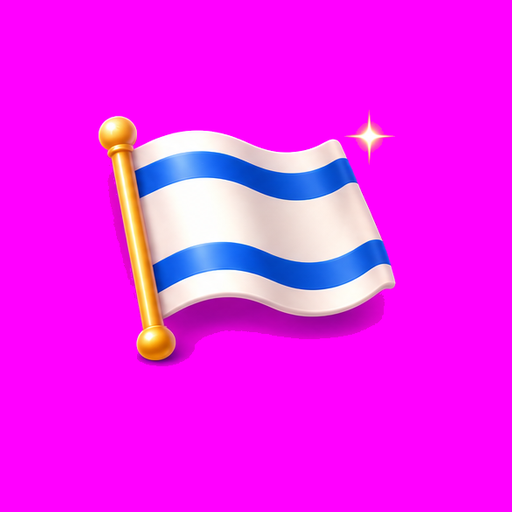
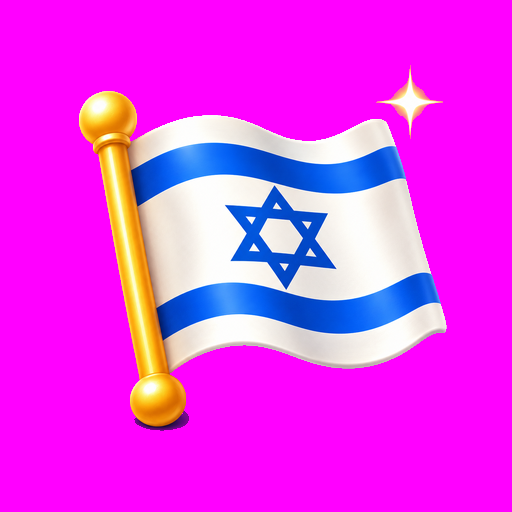
Ornaments round 7B: Purim colours, flag with Star of David, Hanukkah picture per day
Claude-Session: https://claude.ai/code/session_015MgUfvEpRuHmqiXj3bQ7Zo

Changed region(s): [[0.1562, 0.125, 0.875, 0.8438]]

diff --git a/scripts/make-art-assets.py b/scripts/make-art-assets.py
@@ -292,11 +292,12 @@ def ornaments():
         im = drop_specks(key(f'{src}/{n}')).resize((256, 256), Image.LANCZOS)
         im.save(f'{RES}/drawable-nodpi/{n[:-4]}.webp', format='WEBP', quality=92, alpha_quality=100, method=6)
         ims.append(im)
-    sheet = Image.new('RGB', (256 * 5, 256 * 4), (242, 242, 242))
-    sheet.paste(Image.new('RGB', (256 * 5, 256 * 2), (21, 23, 26)), (0, 256 * 2))
+    rows = (len(ims) + 4) // 5
+    sheet = Image.new('RGB', (256 * 5, 256 * rows * 2), (242, 242, 242))
+    sheet.paste(Image.new('RGB', (256 * 5, 256 * rows), (21, 23, 26)), (0, 256 * rows))
     for i, im in enumerate(ims):
-        for row in (0, 2):
-            sheet.paste(im, ((i % 5) * 256, (row + i // 5) * 256), im.getchannel('A'))
+        for off in (0, rows):
+            sheet.paste(im, ((i % 5) * 256, (off + i // 5) * 256), im.getchannel('A'))
     sheet.save('design/ornaments/review_sheet.png')
     print(len(ims), 'ornaments')
 

diff --git a/docs/PENDING_CHATGPT_PROMPTS.md b/docs/PENDING_CHATGPT_PROMPTS.md
@@ -7,7 +7,7 @@ Rule: assets are generated by the owner's ChatGPT from the prompts below, never 
 | 0 | `docs/prompts/ROUND0_STYLE_BIBLE_AND_LOGO_PROMPT.md` | **Logo** (mark, mono, lockups) + the style bible sheet that anchors everything | every other round, the launcher icon, the in-app brand mark | **WAITING FOR OWNER - run first** |
 | 0B | `docs/prompts/ROUND0B_LOGO_FIX_PROMPT.md` | Logo fix: round-0 delivery (2026-11-19) had a stray artifact, a card that reads as a sofa/headphones, a fiery sun aura, halo-ridden cut-out and a blob mono file. **Style bible = APPROVED** (`design/round0/style_bible.jpg`) | logo files, app icon | **WAITING FOR OWNER** |
 | 0C | `docs/prompts/ROUND0C_LOGO_CLOCK_CUE_PROMPT.md` | **DONE 2026-11-19: logo APPROVED** (flip card with "10", sun, golden orbit, wordmark). Keyed to transparent PNGs by `scripts/make-art-assets.py logo` and integrated: launcher icon (adaptive + monochrome) and Home header lockup | - | **DONE** |
-| 7B | `docs/prompts/ROUND7B_PURIM_FIX_PROMPT.md` | Ornament fixes: Purim mask colours (magenta-leaning purple was keyed out), flag with the Star of David (owner: important), and Hanukkah day by day (8 images with 1..8 candles lit + shamash) | the correct Hanukkah picture per day (code already supports `orn_hanukkah_<n>` and falls back to `orn_hanukkah`) | prompt given to the owner, waiting for delivery |
+| 7B | `docs/prompts/ROUND7B_PURIM_FIX_PROMPT.md` | Ornament fixes: Purim mask colours (magenta-leaning purple was keyed out), flag with the Star of David (owner: important), and Hanukkah day by day (8 images with 1..8 candles lit + shamash) | the correct Hanukkah picture per day (code already supports `orn_hanukkah_<n>` and falls back to `orn_hanukkah`) | DELIVERED and integrated 2026-11-21 (Purim indigo/rose, flag with Star of David, 8 Hanukkah days; Hanukkah flames are copies of the day-1 flame, so phone-check alignment) |
 | 7 | `docs/prompts/ROUND7_SEASONAL_PROMPT.md` | **DONE 2026-11-21 (accepted, Purim needs 7B)**: 9 painted holiday corner ornaments keyed and integrated by `make-art-assets.py ornaments` (originals in `design/ornaments/originals`); shown in the widget corner and the dashboard header on the holiday when festive looks are on | - | done |
 | 6C | `docs/prompts/ROUND6C_POCKET_WATCH_METALS_PROMPT.md` | DONE 2026-11-20 (integrated: silver + rose-gold case, bezel and 3 dials; chain omitted): silver and rose-gold recolours of the approved case and bezel (identical geometry, so the code can pick the metal by palette), plus a larger chain | metal choice for the pocket watch | done |
 | 6B | `docs/prompts/ROUND6B_POCKET_WATCH_FIX_PROMPT.md` | **DONE 2026-11-20 (accepted with code-side fixes)**: painted gold hunter case, bezel, 3 dials with antique Arabic numerals, ornate hands. Used: pw_case_closed, pw_bezel_gold, dials, hands (`design/pocketwatch/originals`, aligned by `scripts/make-art-assets.py pocket` into `pw_case`, `pw_open_*`, `pw_hand_*`). NOT used: the 12 lid frames (not pixel-registered; the lid opening is animated in code from the case art), silver/rose bezels (ragged edges), chain (small; optional later) | pocket-watch style | **DONE** |

diff --git a/docs/REQUESTS.md b/docs/REQUESTS.md
@@ -79,6 +79,6 @@ Status: DONE (verified as noted) · CODE (written, needs CI/phone proof) · ART 
 | R66 | (owner, 2026-11-21) Detailed, maintained docs for operation, maintenance and future improvement | DONE: `README.md` map, ARCHITECTURE, FEATURES, SETTINGS_REFERENCE, DATA_AND_PRIVACY, OPERATIONS, MAINTENANCE, TESTING; `RepoHygieneTest` enforces settings, cards, permissions, hosts, workflows and README links |
 | R67 | (owner, 2026-11-21) Special events (birthdays...) from the Special Events app shown in the widget | Code: reads that app's local calendar (account `special_events`) with the existing calendar permission: nearest one in the widget row, a dashboard card, settings; no change needed in the other app except turning on its "export to calendar"; contract in `docs/SPECIAL_EVENTS_INTEGRATION.md`; needs a phone |
 | R68 | (owner, 2026-11-21) Holiday ornaments delivered (round 7) | Integrated (9 webp, widget corner + dashboard header on the holiday). Purim ornament needs the colour fix prompt 7B |
-| R69 | (owner, 2026-11-21) Hanukkah: the correct picture for each day (1..8 candles + shamash); the evening before already counts | Code: `Season.ornamentKey/effectiveDay` + `orn_hanukkah_<n>` lookup with fallback (tested for all 8 days); the 8 pictures come with prompt 7B |
+| R69 | (owner, 2026-11-21) Hanukkah: the correct picture for each day (1..8 candles + shamash); the evening before already counts | Code: `Season.ornamentKey/effectiveDay` + `orn_hanukkah_<n>` lookup with fallback (tested for all 8 days); the 8 pictures (delivered 2026-11-21, `orn_hanukkah_1..8`) are integrated; Purim colours and the Star of David on the flag fixed too. Open: confirm on the phone that the copied flames sit well on the wicks |
 | R70 | (owner, 2026-11-21) Star of David on the flag; Purim mask colours | Prompt 7B (waiting for delivery) |
 | R71 | (owner, 2026-11-21) All earlier suggestions implemented | DONE: weekly portion + Omer, UV/wind charts + comfort word + radar link, bedside clock, saved timer presets + phone ringtone picker, Shabbat mode, TalkBack sentence + High-contrast and Big-text presets + reduce-motion, tick lateness log, tablet two-column dashboard. NOT built: interval (work/rest) timer, pollen / air quality (needs another API host), Wear OS tile |

diff --git a/docs/CHANGELOG.md b/docs/CHANGELOG.md
@@ -1,6 +1,7 @@
 # Changelog
 
 ## 0.3.0
+- Ornaments: Purim mask no longer keyed out, Star of David on the flag, Hanukkah picture per day (1-8 candles).
 - Direct read of upcoming events from the Special Events app (its new read-only provider), with the calendar as fallback.
 - Weekly Torah portion and Omer count; Hanukkah ornament per day; Shabbat and Yom Tov mode; bedside clock; UV and wind charts with comfort words and a rain-radar link; timer presets and a phone ringtone picker; TalkBack description, High-contrast and Big-text presets; two-column dashboard on tablets.
 - Birthdays, anniversaries and memorials from the Special Events app (through its calendar) in the widget row and a dashboard card.
